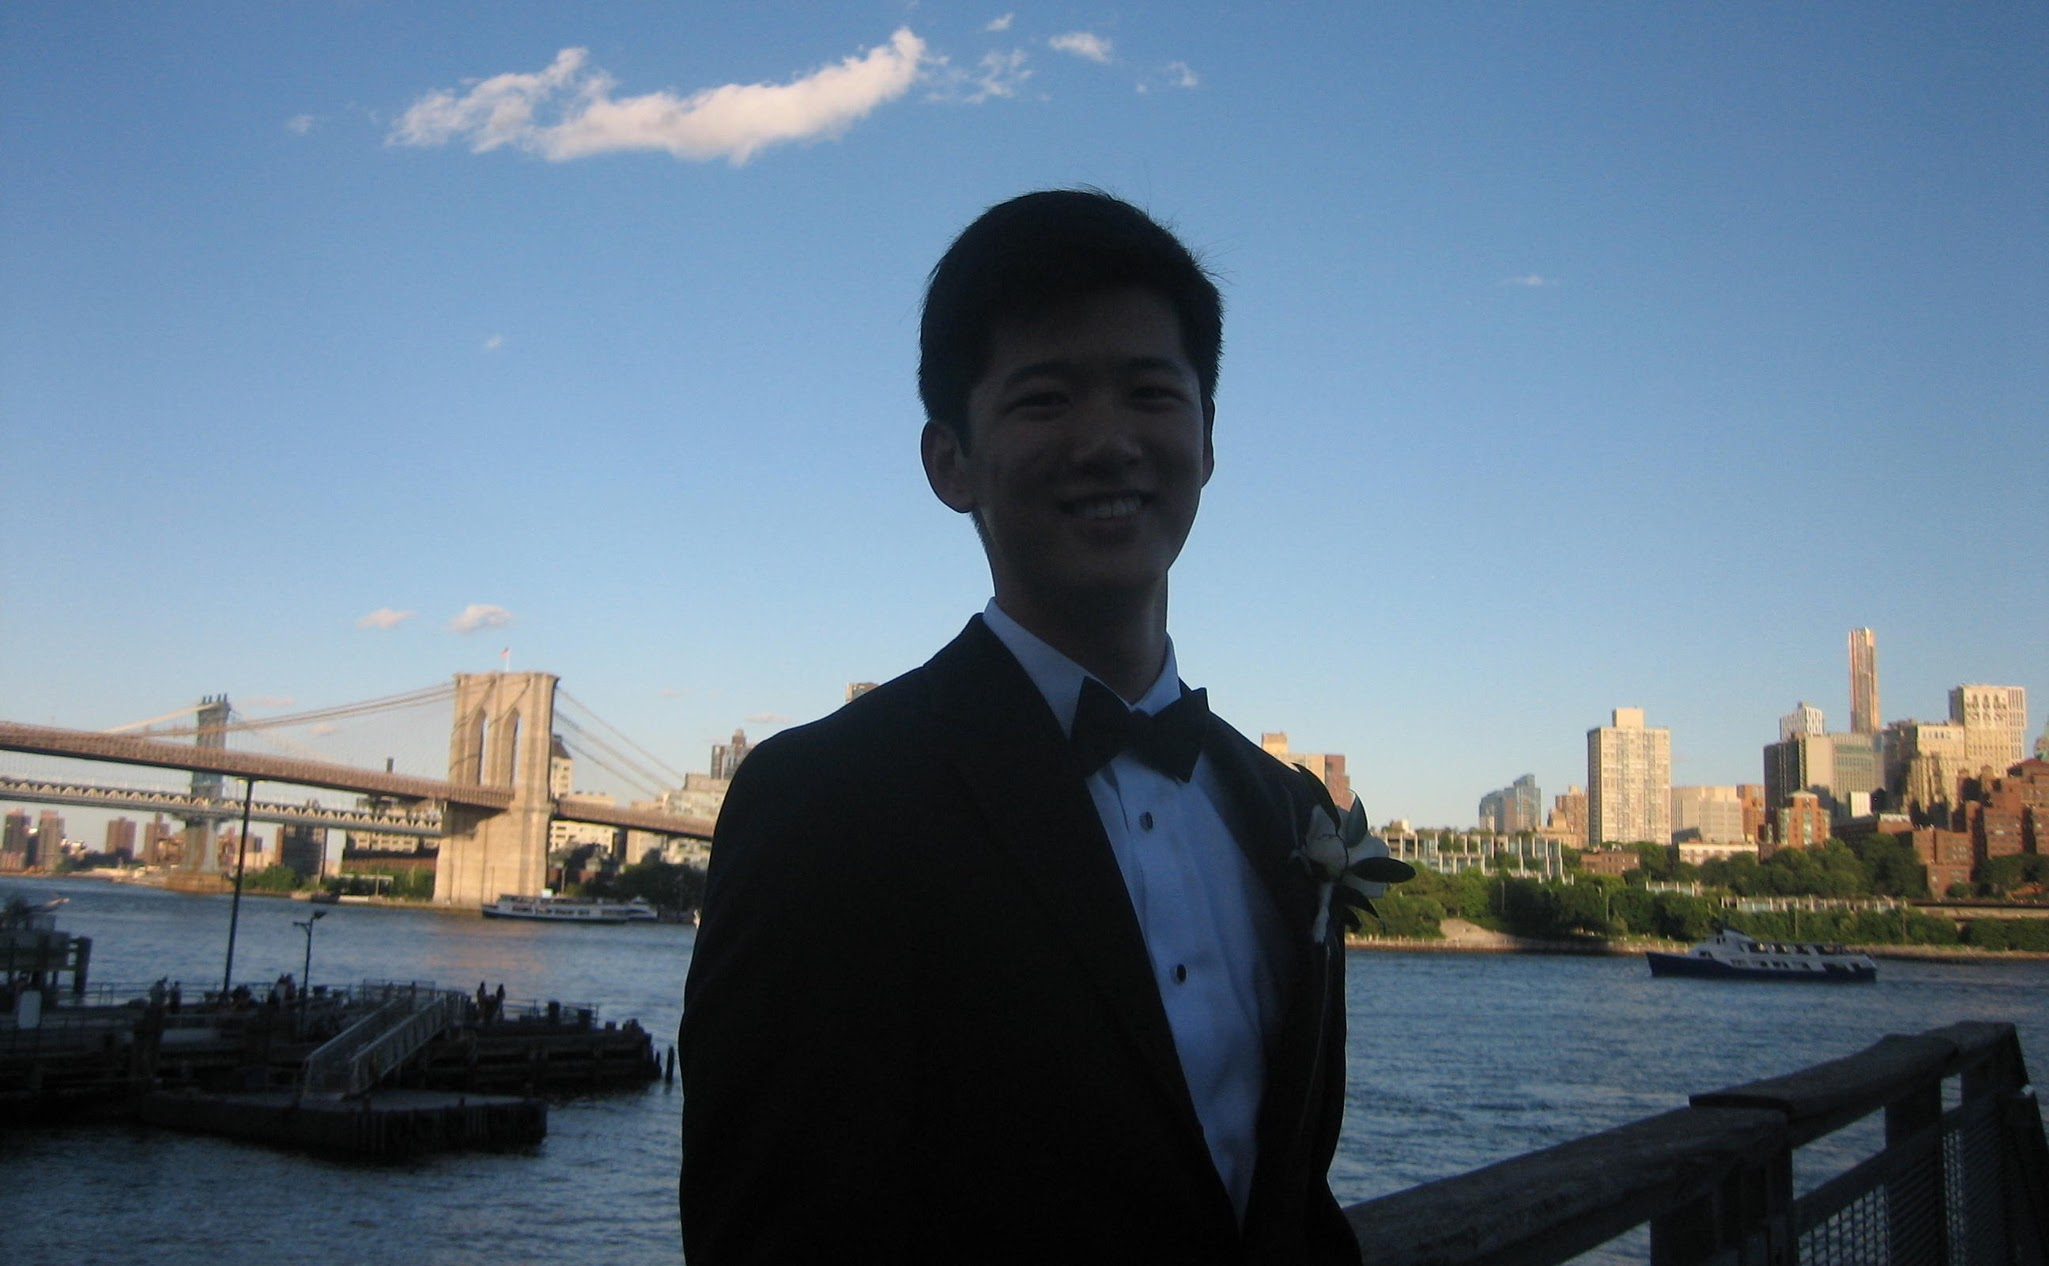
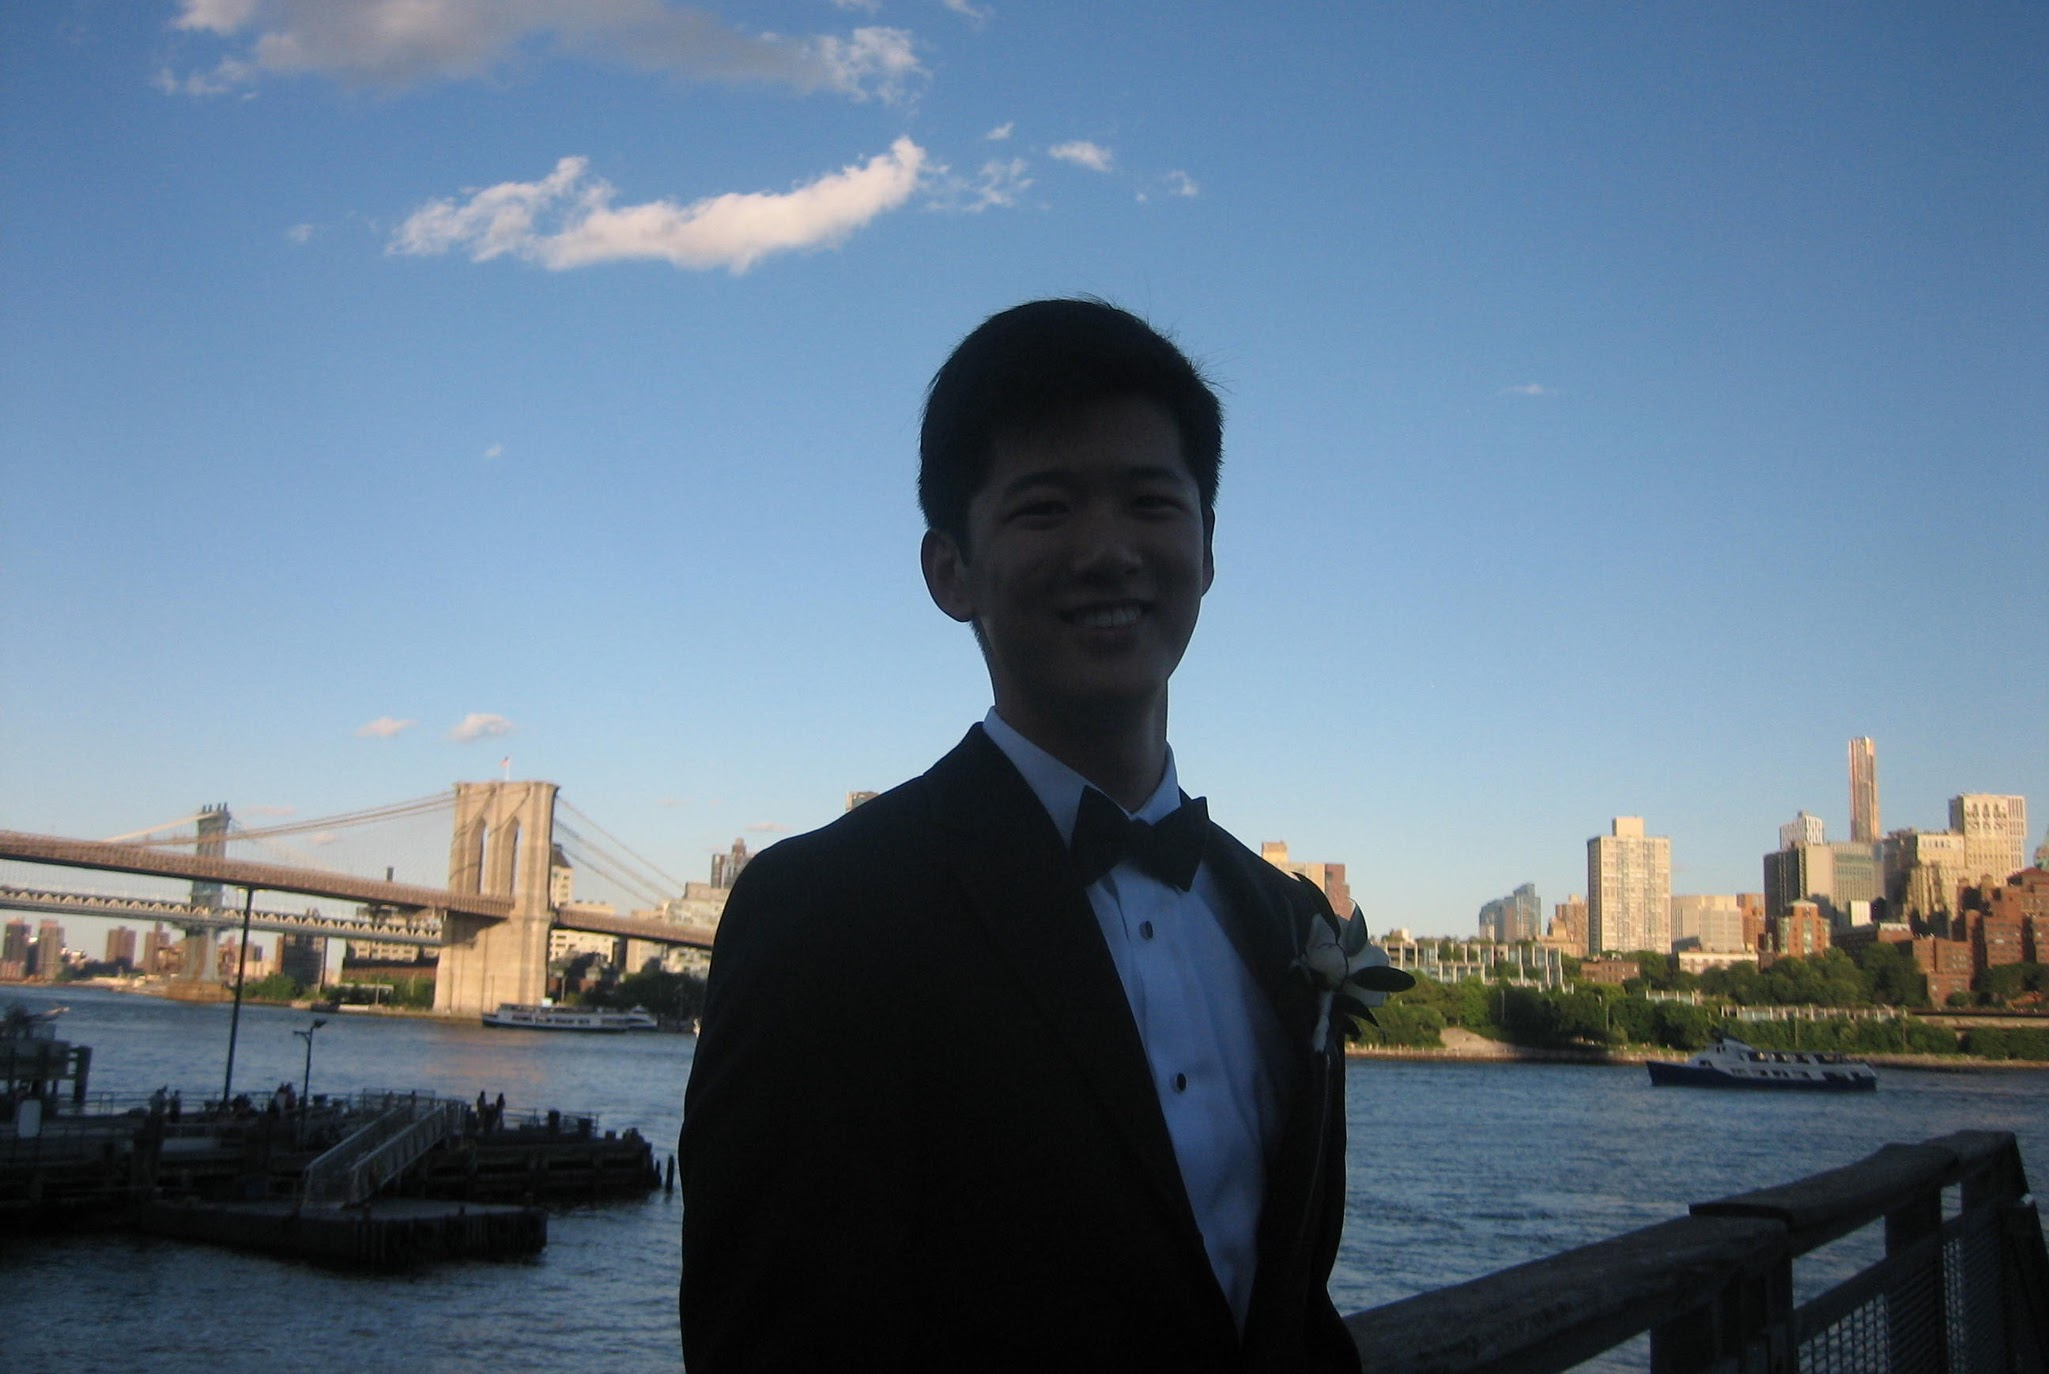
Changed the image again to see if it'll work better

diff --git a/index.html b/index.html
@@ -91,7 +91,7 @@
         <!--===== END HEADER AREA ======-->
 
         <!--======= WELCOME AREA =======-->
-        <div id="home" class="welcome-area" style="background-image: url(assets/img/main2-bg.jpg); background-attachment: fixed;">
+        <div id="home" class="welcome-area" style="background-image: url(assets/img/main1-bg.jpg); background-attachment: fixed;">
            <div class="welcome-table">
                <div class="welcome-cell">
                     <div class="container">
